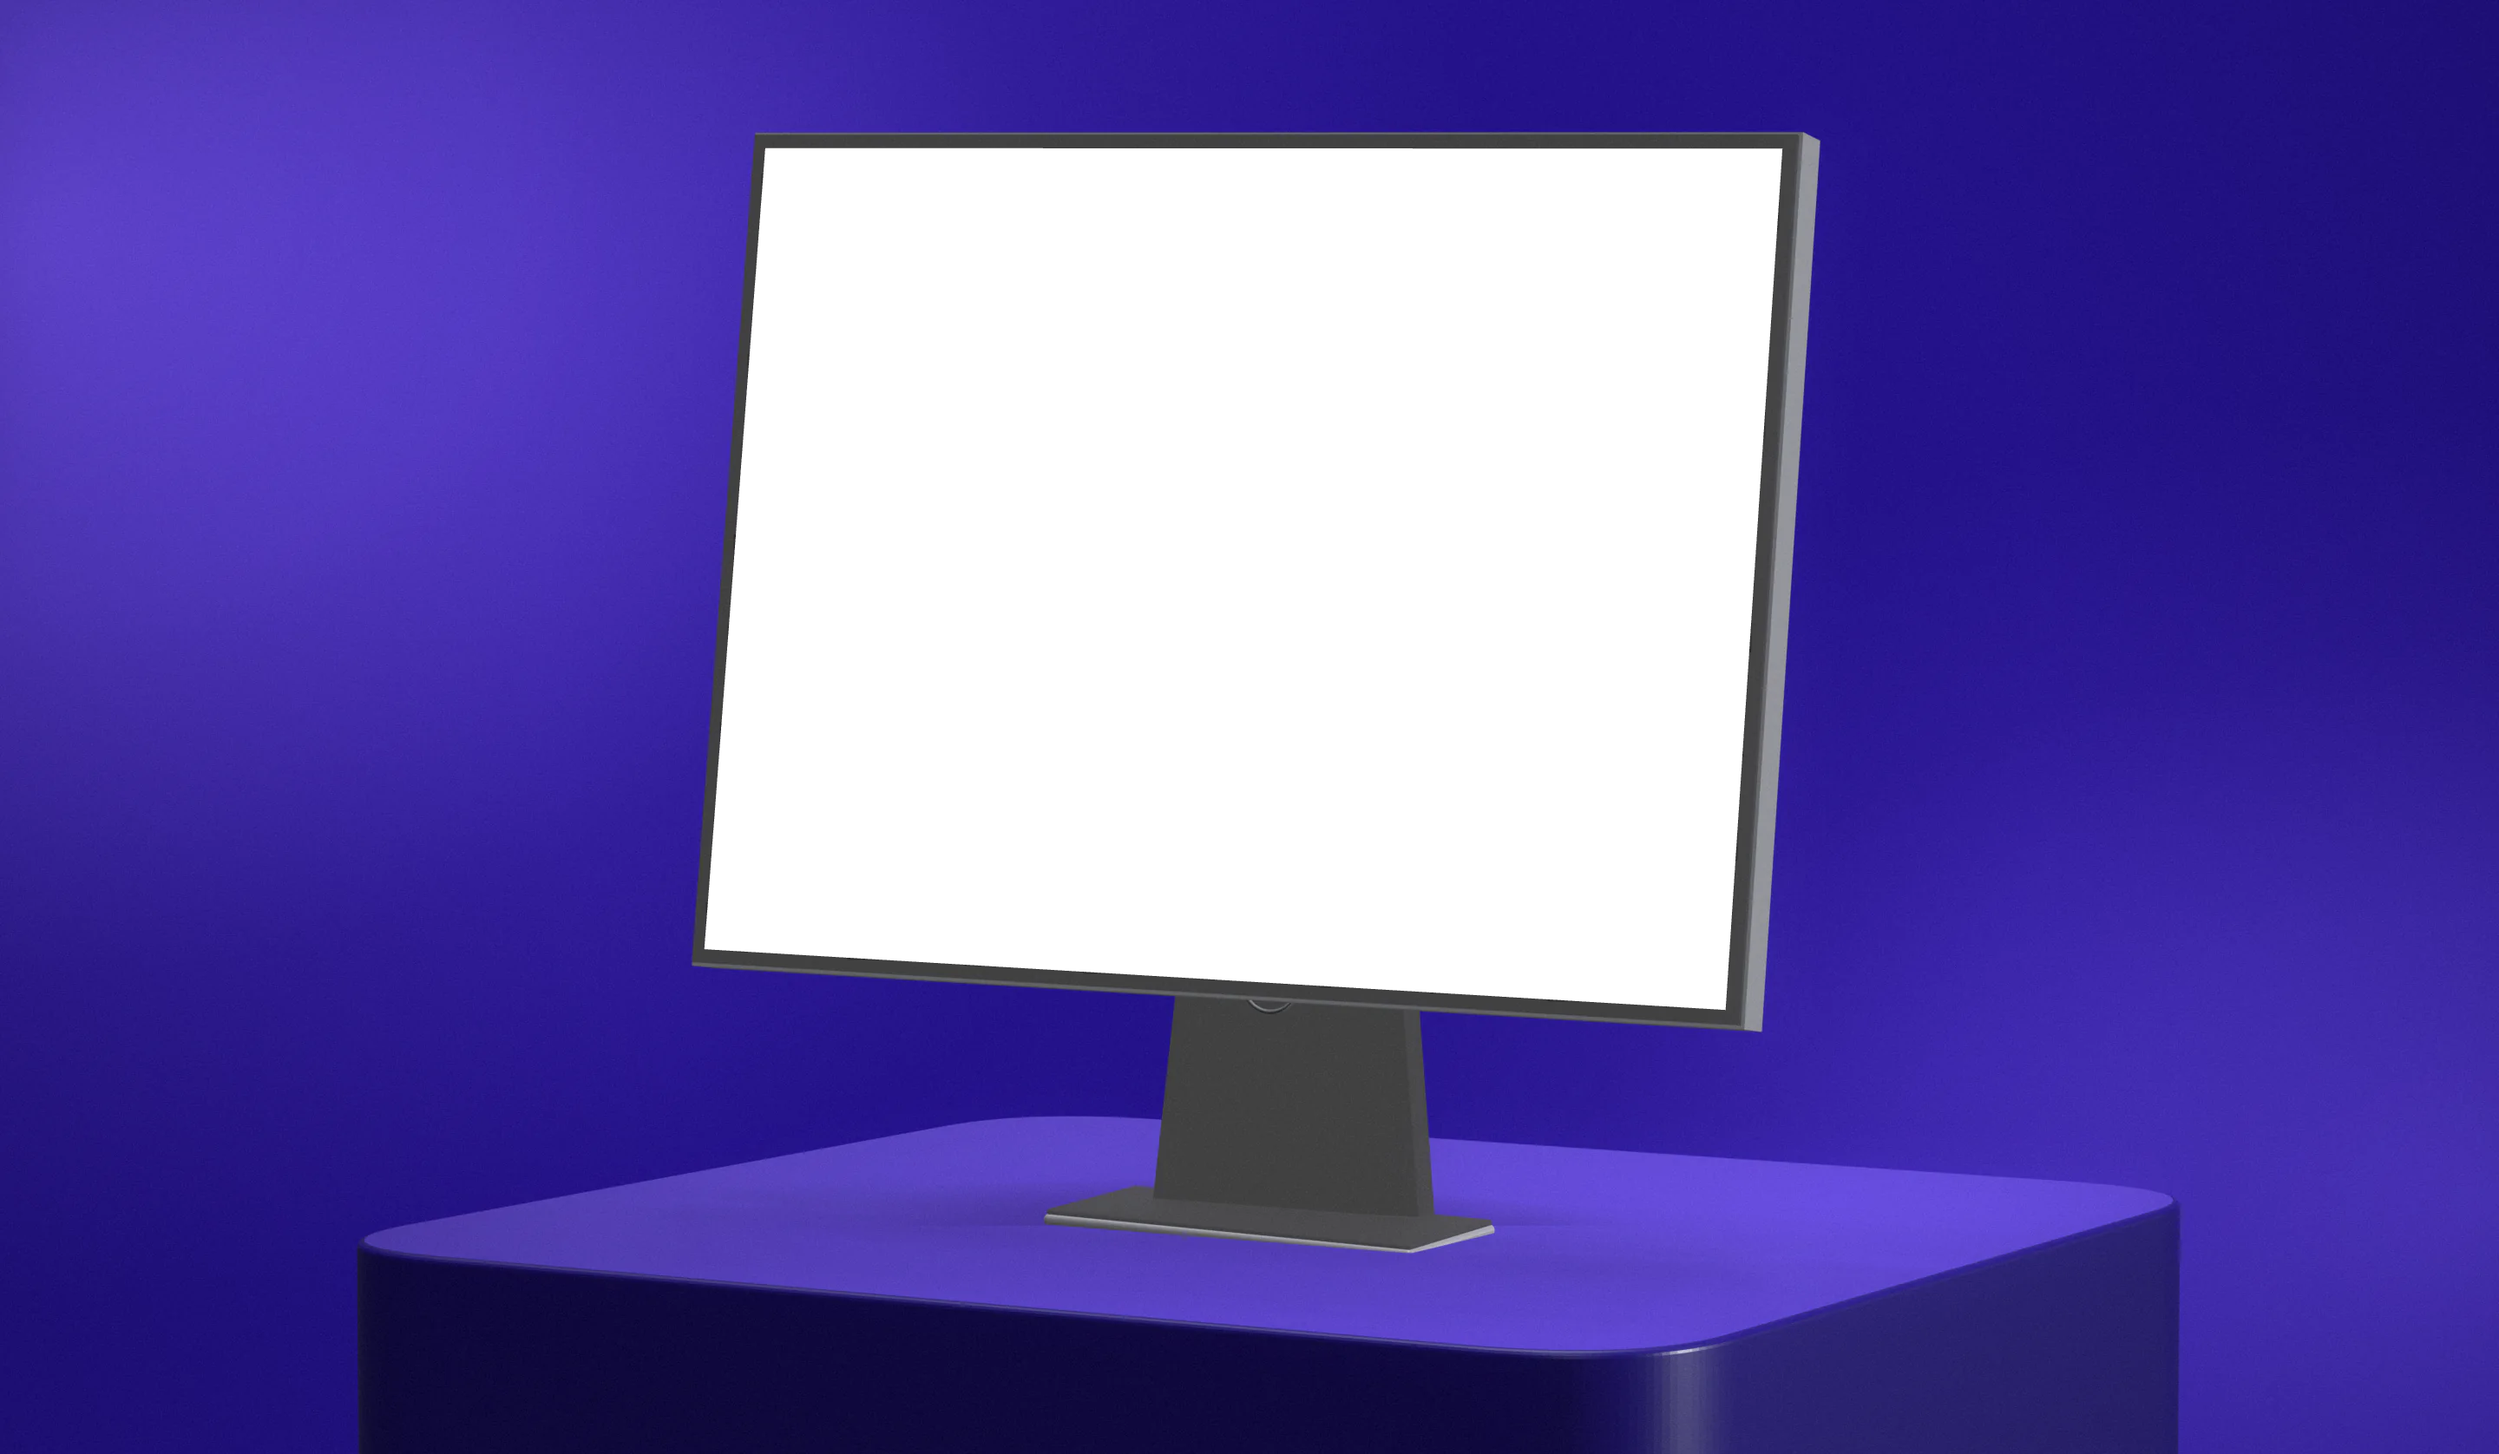
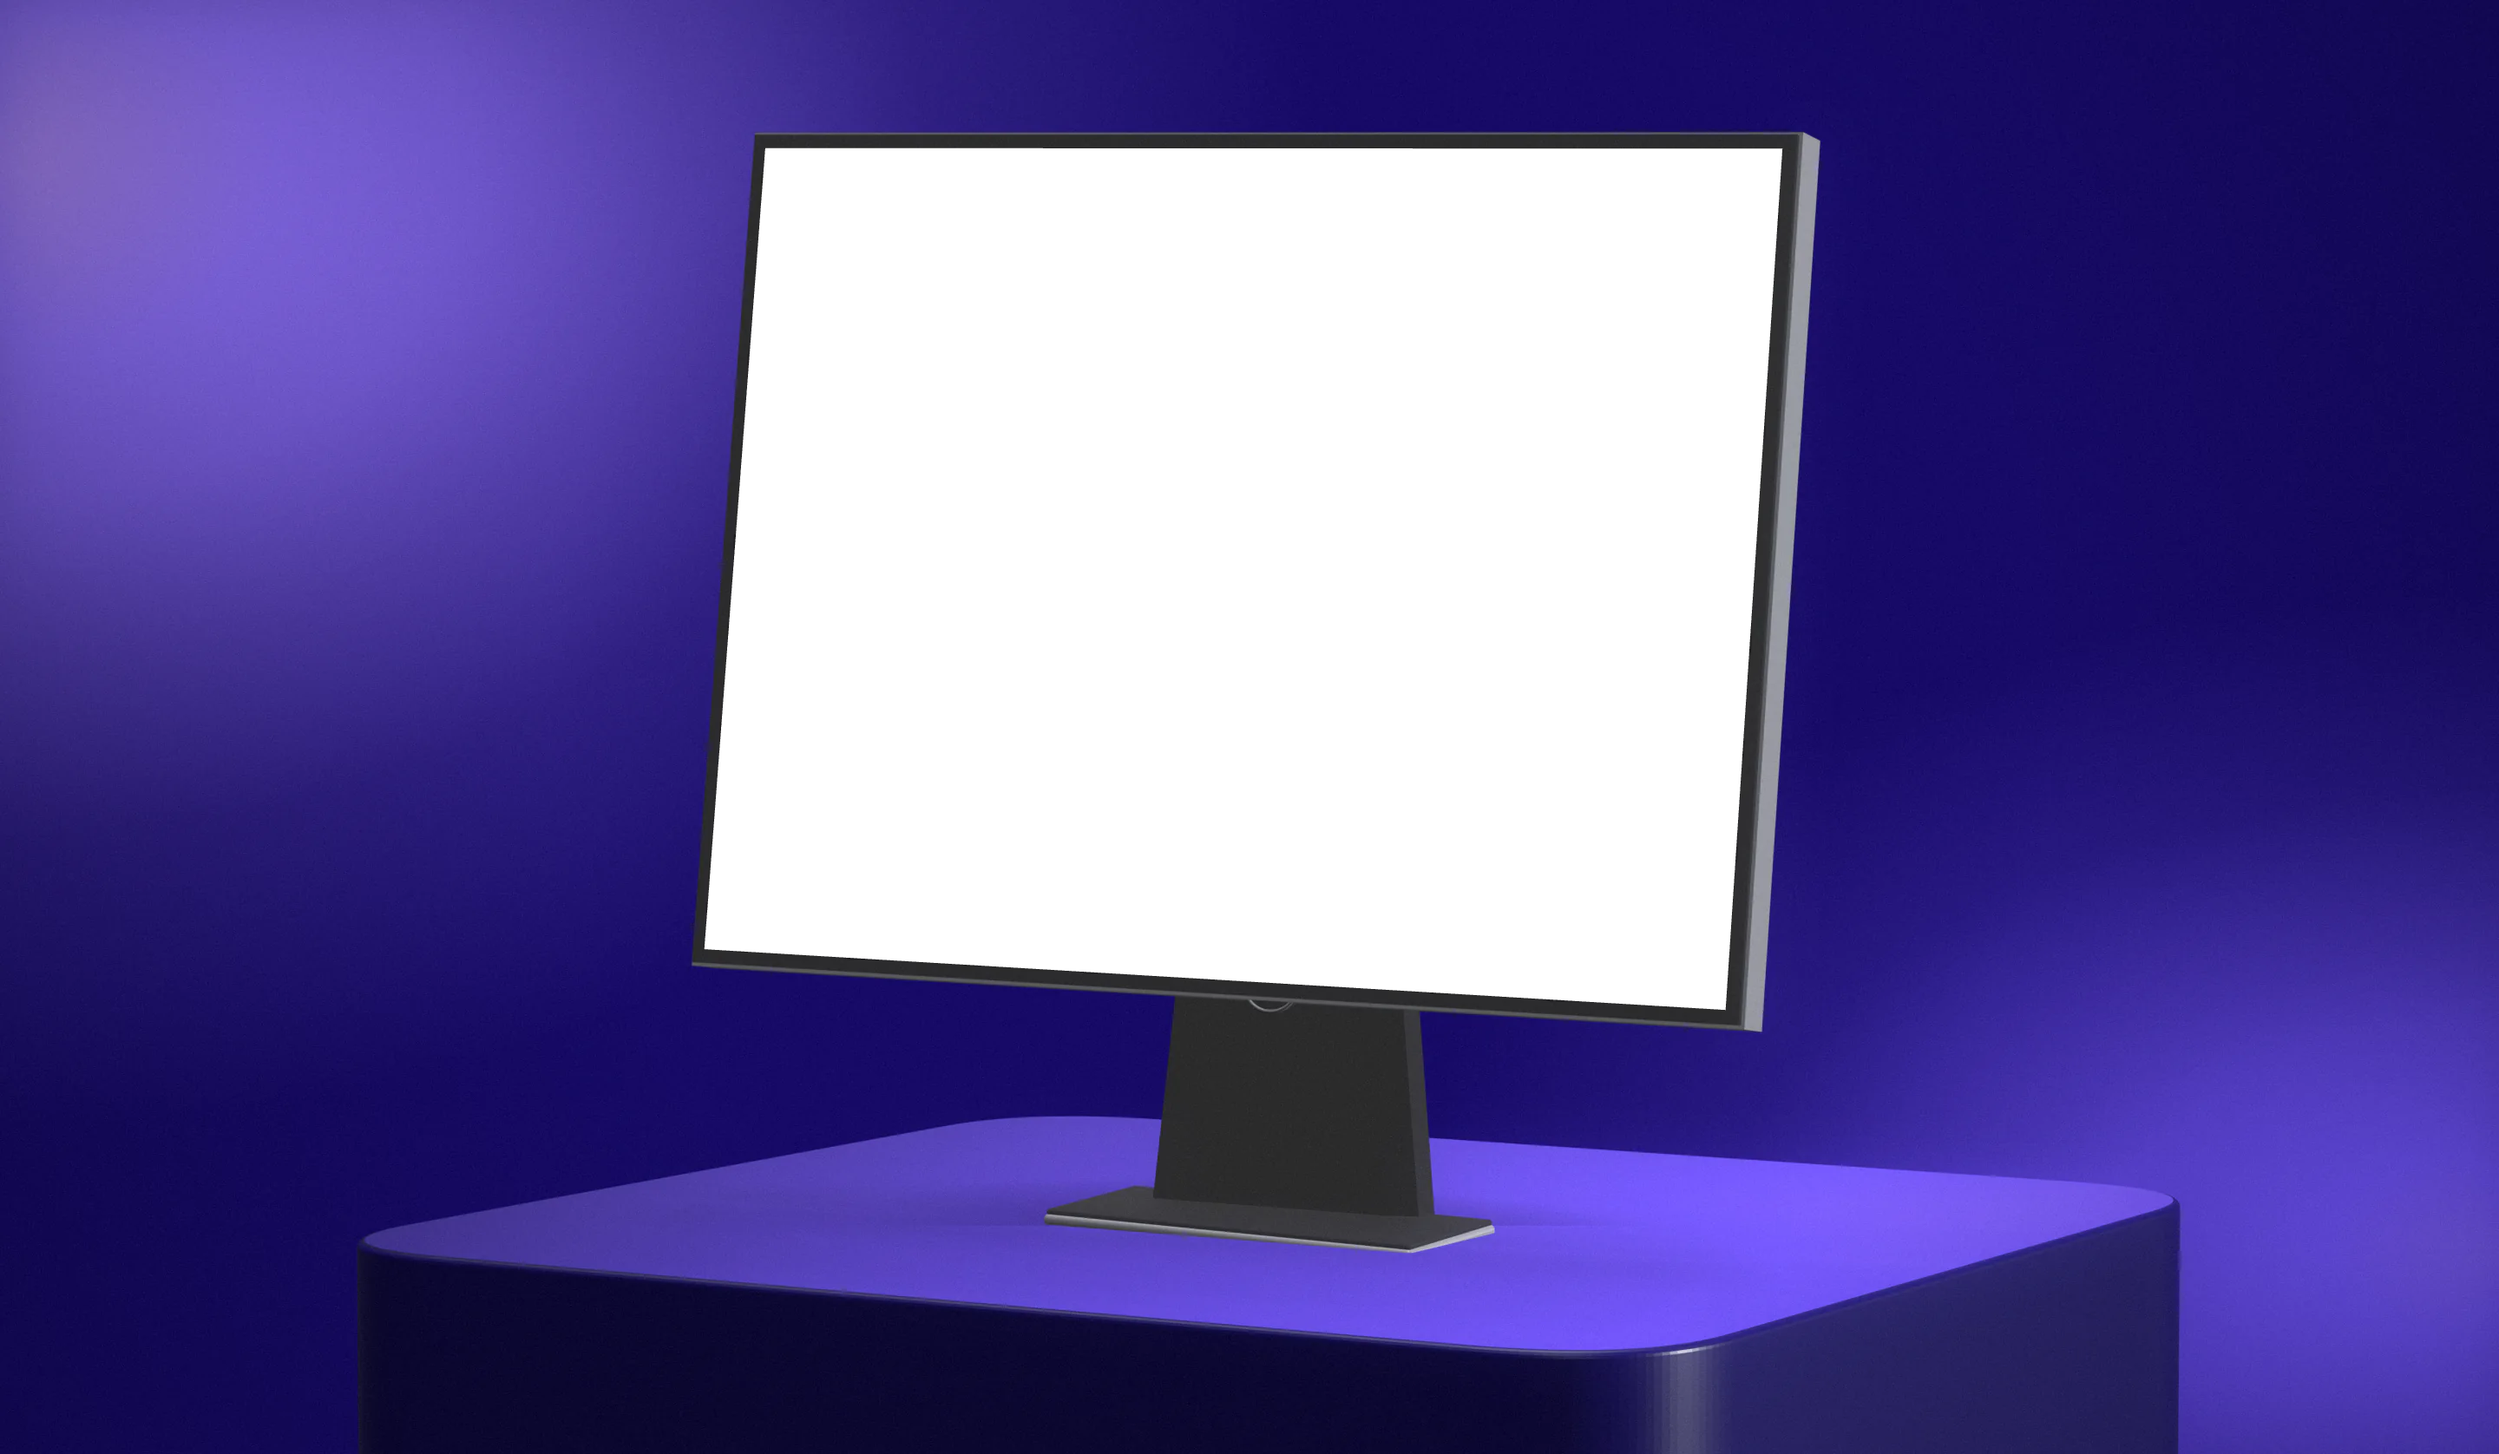
Devsign cover: stronger gradient contrast

diff --git a/scripts/cover-3d/scene.html b/scripts/cover-3d/scene.html
@@ -19,7 +19,7 @@ const g=new THREE.ExtrudeGeometry(sh2,{depth:pl[1],bevelEnabled:true,bevelThickn
 const tex=(n,draw)=>{const c=document.createElement('canvas');c.width=c.height=n;draw(c.getContext('2d'),n);const t=new THREE.CanvasTexture(c);t.wrapS=t.wrapT=THREE.RepeatWrapping;return t};
 const grain=tex(1024,(x,n)=>{const d=x.createImageData(n,n);for(let i=0;i<d.data.length;i+=4){const v=118+Math.random()*20;d.data[i]=d.data[i+1]=d.data[i+2]=v;d.data[i+3]=255}x.putImageData(d,0,0)});grain.repeat.set(1.2,1.2);
 const yb=g.attributes.position,col=new Float32Array(yb.count*3),uv=g.attributes.uv;let miny=1e9,maxy=-1e9;for(let i=0;i<yb.count;i++){const y=yb.getY(i);miny=Math.min(miny,y);maxy=Math.max(maxy,y)}
-for(let i=0;i<yb.count;i++){const t=(yb.getY(i)-miny)/(maxy-miny),x=yb.getX(i)/pl[0]+.5,z=yb.getZ(i)/pl[2]+.5;const v=t>.999?(.82+.3*x-.12*z):Math.pow(t,6)*.75+.25;col[i*3]=col[i*3+1]=col[i*3+2]=v}g.setAttribute('color',new THREE.BufferAttribute(col,3));
+for(let i=0;i<yb.count;i++){const t=(yb.getY(i)-miny)/(maxy-miny),x=yb.getX(i)/pl[0]+.5,z=yb.getZ(i)/pl[2]+.5;const v=t>.999?(.58+.72*x-.2*z):Math.pow(t,7)*.85+.12;col[i*3]=col[i*3+1]=col[i*3+2]=v}g.setAttribute('color',new THREE.BufferAttribute(col,3));
 const topm=M(P.plc,.62),sidem=M(P.pls,.72);for(const m of [topm,sidem]){m.vertexColors=true;m.bumpMap=grain;m.bumpScale=.35;m.roughnessMap=grain}
 const o=new THREE.Mesh(g,[topm,sidem]);o.position.set(P.px||0,P.py,P.pz||0);o.rotation.y=P.pyaw;o.rotation.x=P.ptilt;o.castShadow=o.receiveShadow=true;s.add(o);}
 const mon=new THREE.Group();mon.position.set(...P.mon);mon.rotation.x=P.tilt;rig.add(mon);
@@ -58,7 +58,7 @@ for(let yy=0;yy<H;yy++)for(let xx=0;xx<W;xx++){const i=((H-1-yy)*W+xx)*4,o=(yy*W
 x.putImageData(out,0,0);
 {const hi=document.createElement('canvas');hi.width=W;hi.height=H;const hx=hi.getContext('2d'),hd=hx.createImageData(W,H);for(let i=0;i<e.length;i+=4){const l=(e[i]+e[i+1]+e[i+2])/3,k=Math.max(0,l-105)/150;hd.data[i]=e[i]*k;hd.data[i+1]=e[i+1]*k;hd.data[i+2]=e[i+2]*k;hd.data[i+3]=255}hx.putImageData(hd,0,0);
 x.globalCompositeOperation='lighter';x.filter=`blur(${W/90}px)`;x.globalAlpha=.4;x.drawImage(hi,0,0);x.filter='none';x.globalAlpha=1;x.globalCompositeOperation='source-over';
-const v=x.createRadialGradient(W*.52,H*.46,W*.3,W*.52,H*.46,W*.75);v.addColorStop(0,'rgba(10,4,50,0)');v.addColorStop(1,'rgba(10,4,50,.42)');x.fillStyle=v;x.fillRect(0,0,W,H);
+const v=x.createRadialGradient(W*.52,H*.46,W*.3,W*.52,H*.46,W*.75);v.addColorStop(0,'rgba(10,4,50,0)');v.addColorStop(1,'rgba(6,2,36,.62)');x.fillStyle=v;x.fillRect(0,0,W,H);
 const id=x.getImageData(0,0,W,H);for(let i=0;i<id.data.length;i+=4){const n=((Math.random()+Math.random())-1)*P.grain;id.data[i]+=n;id.data[i+1]+=n;id.data[i+2]+=n}x.putImageData(id,0,0)}
 // Screen hole, antialiased.
 x.fillStyle='#000';x.globalCompositeOperation='destination-out';x.beginPath();corners.forEach(([a,bb],i)=>{const px=a/L,py=bb/L;i?x.lineTo(px,py):x.moveTo(px,py)});x.closePath();x.fill();
